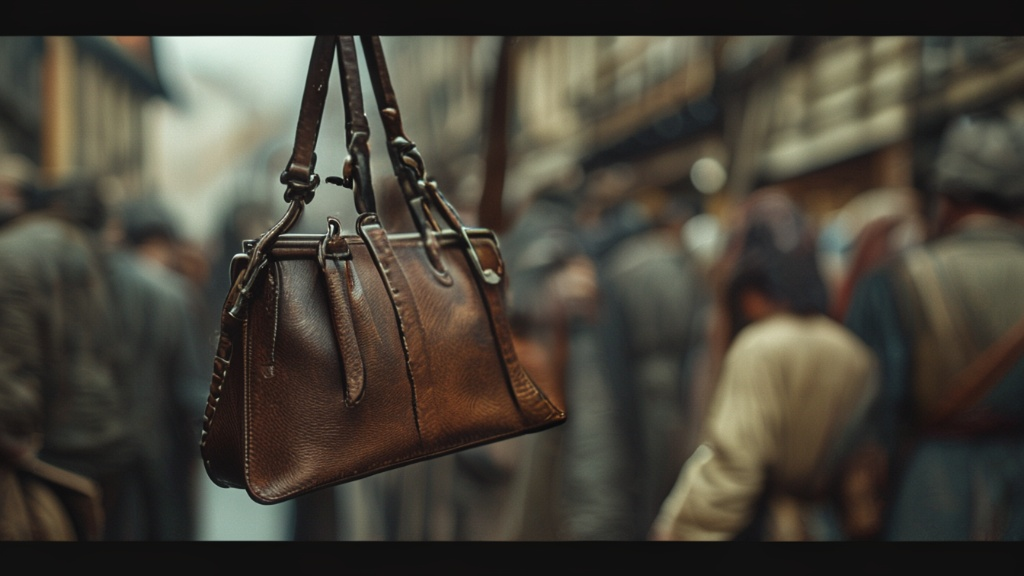
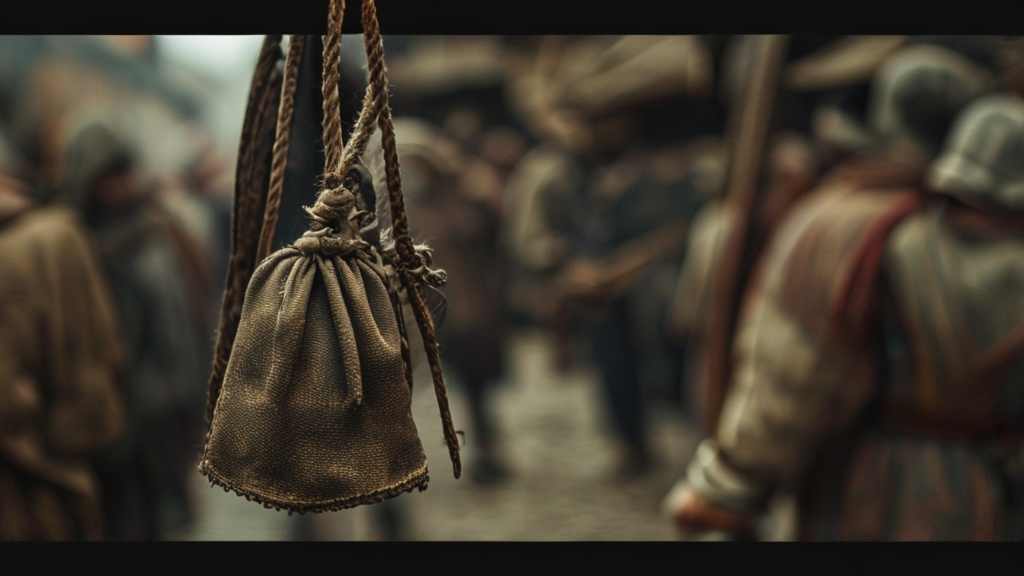
Add generated stills and prompt fixes for anachronisms
Stills generated locally with SANA-Sprint 1.6B; prompts adjusted where
the model produced anachronisms (handbag, teacup, street lamps) or an
inconsistent main character.

Claude-Session: https://claude.ai/code/session_01DyaN8hcpWmKFSWa6AgiFaA

diff --git a/medieval-prison-video/script_data.py b/medieval-prison-video/script_data.py
@@ -26,8 +26,8 @@ PROMPTS = {
                   "old St Paul's cathedral with tall spire, river Thames, morning mist" + OUT, 11),
     "market": ("busy medieval market street, crowd in wool tunics and hoods, wooden stalls with bread "
                "and cloth, muddy ground, timber-framed houses" + OUT, 12),
-    "purse_cut": ("close-up of a leather purse hanging from a belt with its cords freshly cut by a small knife, "
-                  "medieval market crowd blurred behind" + OUT, 13),
+    "purse_cut": ("close-up of a small medieval drawstring pouch of rough leather hanging from a rope belt on a wool tunic, "
+                  "its cord sliced by a thief's small knife, medieval market crowd blurred behind" + OUT, 13),
     "pointing": ("angry medieval townswoman pointing her finger accusingly, crowd turning to look, market street, "
                  "wool hoods and tunics" + OUT, 14),
     "hero_shock": ("close-up portrait of a " + HERO + ", shocked frightened expression, medieval market street "
@@ -70,16 +70,16 @@ PROMPTS = {
                 "candlelight", 35),
     "debtor": ("a wealthy medieval merchant in a fur-trimmed blue gown pointing at a ledger while a "
                "shamefaced debtor is led away by a sergeant" + OUT, 36),
-    "bread_water": ("still life on a stone ledge: a small loaf of coarse brown bread and a clay cup of water, "
-                    "prison cell, cold light from a slit window", 37),
+    "bread_water": ("still life on a stone ledge: a small loaf of coarse brown bread and a rough wooden bowl of water, "
+                    "medieval prison cell, cold light from a narrow slit window", 37),
     "rich_purse": ("close-up of a jewelled hand holding a heavy leather purse full of coins, rich velvet sleeve, "
                    "candlelight", 38),
-    "rich_prisoner": ("a well-dressed medieval merchant prisoner in a private chamber with a bed, a candle, "
-                      "a writing desk and a meal, comfortable" + IN, 39),
+    "rich_prisoner": ("a wealthy 14th century merchant in a long fur-lined gown and hood, a prisoner in a private stone chamber "
+                      "with a curtained bed, a candle and a meal on a table, comfortable" + IN, 39),
     "ludgate": ("medieval stone city gatehouse on a hill street, statues in niches, Ludgate London, "
                 "cathedral spire behind" + OUT, 40),
-    "pushed_in": ("a " + KEEPER + " shoving a " + HERO + " through a low stone doorway into darkness, "
-                  "torchlight" + IN, 104),
+    "pushed_in": ("a " + KEEPER + " shoving a young " + HERO + " through a low stone doorway into darkness, "
+                  "torchlight" + IN, 204),
 
     # --- chapter 2
     "pov_corridor": ("first person view walking down a narrow low stone passage, a gaoler ahead holding a torch, "
@@ -98,15 +98,16 @@ PROMPTS = {
     "dark_figures": ("dark crowded medieval cell, prisoners huddled against the walls, one praying, one coughing, "
                      "faces lit by a single torch" + IN, 47),
     "chains_floor": ("close-up of heavy iron chains dragging across a stone floor, rusty links, straw" + IN, 48),
-    "ankle_iron": ("close-up of a gaoler's hands locking a heavy iron ring around a man's bare dirty ankle, "
-                   "chain attached, stone floor" + IN, 49),
+    "ankle_iron": ("close-up of a heavy rusted iron fetter clamped around a man's bare dirty ankle, thick chain running across "
+                   "a stone floor with straw, torchlight", 149),
     "keeper_grin": ("portrait of a " + KEEPER + ", sly greedy smile, holding out his palm for payment, "
                     "torchlight" + IN, 106),
     "hero_sits": ("a " + HERO + ", sitting on straw against a stone prison wall, knees drawn up, exhausted, "
                   "iron ring on his ankle" + IN, 107),
 
     # --- chapter 3
-    "empty_bowl": ("close-up of an empty wooden bowl on a prison floor, a few crumbs, straw, cold light" + IN, 51),
+    "empty_bowl": ("close-up of an empty cracked wooden bowl lying on a straw-covered stone prison floor, a few crumbs, "
+                   "dim grey light from above", 151),
     "keeper_ledger": ("a " + KEEPER + ", counting coins at a rough table beside a tally stick and a candle, "
                       "prison office" + IN, 108),
     "bed_room": ("a crude wooden bed with a straw mattress in a small stone room of a medieval prison, a "
@@ -122,16 +123,16 @@ PROMPTS = {
               "stall, baker looking worried" + OUT, 56),
     "bread_basket": ("a basket of confiscated bread loaves being carried through the dark doorway of a medieval "
                      "prison by an officer" + IN, 57),
-    "grab_bread": ("hungry ragged medieval prisoners reaching out for loaves of bread in a dark prison, "
-                   "desperate hands" + IN, 58),
+    "grab_bread": ("two hungry ragged medieval prisoners in a dark cell tearing a loaf of bread apart, desperate faces, "
+                   "torchlight" + IN, 158),
     "hero_hungry": ("close-up portrait of a " + HERO + ", hollow cheeks, hungry exhausted eyes, prison "
                     "torchlight" + IN, 110),
     "empty_corner": ("an empty corner of a medieval prison cell, flattened straw, an overturned empty bowl, "
                      "a beam of cold light, nobody there", 59),
 
     # --- chapter 4
-    "crowd_overhead": ("overhead view looking down into a packed medieval prison room, dozens of prisoners lying "
-                       "and sitting on straw, chains" + IN, 61),
+    "crowd_overhead": ("high angle shot looking down on a crowded medieval prison cell, twenty ragged men and women sitting "
+                       "and lying close together on straw, chains, torchlight" + IN, 161),
     "water_bucket": ("close-up of a wooden bucket of murky brown water in a prison cell, scum floating, "
                      "a tin cup" + IN, 62),
     "rat": ("close-up of a brown rat sniffing through straw beside a crust of bread, stone prison floor" + IN, 63),
@@ -156,14 +157,14 @@ PROMPTS = {
                   "carts passing below" + OUT, 74),
     "tower": ("the White Tower of the Tower of London in the 14th century, pale stone keep with four turrets, "
               "curtain walls, river Thames" + OUT, 75),
-    "stocks": ("medieval village green, a labourer sitting locked in wooden stocks by his ankles, villagers "
-               "watching, thatched cottages" + OUT, 77),
+    "stocks": ("a peasant sitting on the ground with both ankles locked in medieval wooden stocks, a heavy timber board "
+               "with two leg holes on posts, village green, thatched cottages, villagers watching" + OUT, 177),
     "keys_hook": ("close-up of a ring of large iron keys hanging on a hook on a stone wall, torchlight" + IN, 78),
 
     # --- chapter 6
-    "hero_eyes": ("extreme close-up of the eyes of a " + HERO + ", determined, glancing up, prison torchlight" + IN, 111),
-    "tower_night": ("the White Tower of the Tower of London at night, moonlight, torches on the walls, "
-                    "river mist", 81),
+    "hero_eyes": ("extreme close-up of the face of a young " + HERO + ", determined eyes glancing up, prison torchlight" + IN, 211),
+    "tower_night": ("the pale stone White Tower keep of the Tower of London at night, lit only by moonlight and burning "
+                    "torches on the battlements, river mist, medieval", 181),
     "feast": ("a medieval bishop in rich robes toasting drunk laughing guards at a feast table in a torchlit "
               "stone chamber, wine jugs" + IN, 82),
     "rope_wall": ("a rope hanging from a high narrow window down the pale stone wall of a castle keep at "
@@ -190,8 +191,8 @@ PROMPTS = {
     # --- chapter 7
     "hero_waiting": ("a " + HERO + ", sitting alone in a prison cell as a beam of light from a slit window "
                      "falls across the floor, waiting" + IN, 114),
-    "justices": ("royal justices in scarlet robes and coifs riding on horseback into a medieval English town "
-                 "with an escort, townsfolk watching" + OUT, 91),
+    "justices": ("two bareheaded grey-haired royal judges in long scarlet robes riding brown horses along a muddy "
+                 "medieval English town street, mounted escort, townsfolk watching from doorways" + OUT, 301),
     "court_empty": ("an empty medieval courtroom in a stone hall, judges' bench and benches empty, "
                     "dust in shafts of light", 92),
     "approver": ("a sly prisoner whispering names to a " + CLERK + " who writes on parchment in a prison, "
@@ -209,8 +210,8 @@ PROMPTS = {
     # --- finale
     "hero_back_light": ("view from behind of a " + HERO + ", standing in a dark cell facing a single beam of "
                         "daylight from a high window" + IN, 116),
-    "empty_purse": ("close-up of an empty flat leather purse turned inside out on a stone floor, straw, "
-                    "torchlight" + IN, 98),
+    "empty_purse": ("close-up of an empty small drawstring pouch of rough worn leather lying open and flat on straw on a stone "
+                    "prison floor, torchlight" + IN, 198),
     "open_ring": ("an open empty iron shackle lying on straw on a prison floor, cold morning light", 99),
     "castle_banners": ("romantic medieval castle with colourful banners flying in golden sunset light, "
                        "green hills, knights riding" , 100),
